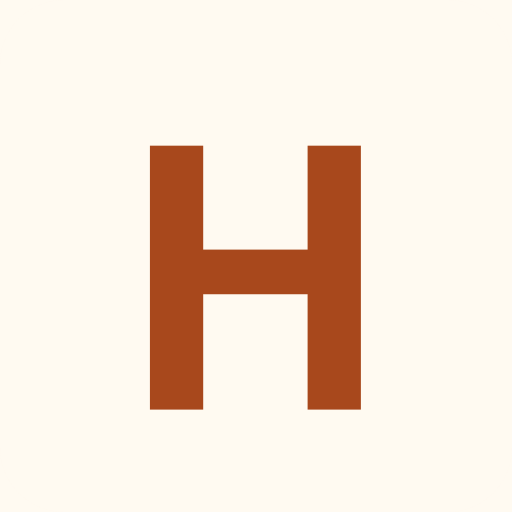
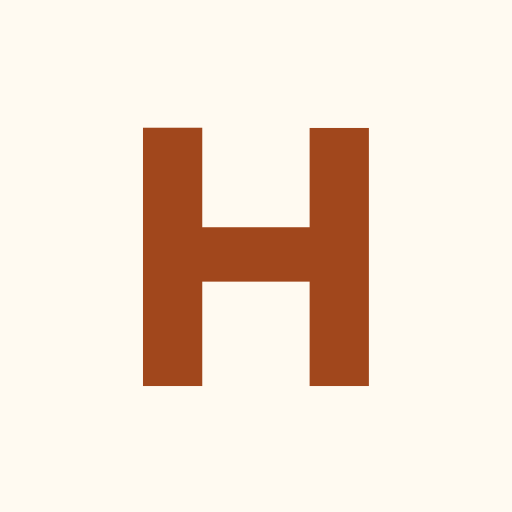
fix(app-splash): знак и иконка набраны Figtree, Caprasimo убран из продукта
Тринадцатая сборка отменила прежнюю оговорку «внутри приложения знак
остаётся в Caprasimo»: строки «вид диска» и «что в круге» заменены на
«вид диска в загрузчике» и «что в иконке», обе просят Figtree 800.

Попутно нашёлся дефект, которого контракт не называл: иконки никогда
не рисовались Figtree. Генератор вшивал шрифт в SVG строкой base64, но
librsvg внутри sharp @font-face в SVG игнорирует — семейства берутся
только из fontconfig. Запасным для веса 800 оказывался брусковый шрифт
с засечками, прямо против «буква рубленая». Теперь шрифт отдаётся своим
fontconfig-конфигом, и генератор падает, если конфиг не прочитан.

Из-за чужих метрик была подобрана и базовая линия: по обмеру готового
PNG центр прописной стоял на 54,6 % высоты. y=75,4 ставит его на 50,1 %.

Тон буквы иконки — --ac2 (#a1471c) из набора ролей, а не #a8481c: это
я ошибся в задании, контракт называет роль прямо.

В загрузчике добавлен preload шрифта: буква живёт 300 мс, при swap она
успела бы мигнуть системным шрифтом.

Changed region(s): [[0.2812, 0.25, 0.7188, 0.8125]]

diff --git a/apps/web/__tests__/boot-spinner-mark.test.js b/apps/web/__tests__/boot-spinner-mark.test.js
@@ -201,19 +201,60 @@ describe('cold-start spinner mark', () => {
     expect(css).not.toMatch(/font: 700 1[67]px/);
   });
 
-  it('puts the loader letter under the wait sign, Caprasimo on --ac', () => {
-    // Контракт app-splash «вид диска»: в загрузчике буква H тоном --ac,
-    // набранная Caprasimo. Кадр «Стык · загрузчик» рисует на её месте сразу
-    // дугу — контракт старше кадра, буква живёт до порога 300 мс.
+  it('puts the loader letter under the wait sign, Figtree 800 on --ac', () => {
+    // Строка контракта app-splash «вид диска в загрузчике» (двенадцатая сборка):
+    // буква H тоном --ac, набранная Figtree весом 800, — «тот же шрифт, что в
+    // иконке приложения; Caprasimo в продукте не используется нигде». Прежняя
+    // редакция обещала здесь Caprasimo, и тест закреплял его как правильный;
+    // дизайнер назвал это ошибкой, поэтому проверка переписана под новую строку.
+    // Кадр «Стык · загрузчик» рисует на месте буквы сразу дугу — контракт старше
+    // кадра, буква живёт до порога 300 мс.
     expect(html).toContain('<span class="heys-boot-mark__letter" aria-hidden="true">H</span>');
-    expect(css).toContain("font-family: Caprasimo;");
-    expect(css).toMatch(/\.heys-boot-mark__letter \{[\s\S]*?Caprasimo[\s\S]*?var\(--boot-letter\)/);
+    expect(css).toContain('font-family: Figtree;');
+    expect(css).toContain("src: url('/fonts/figtree/Figtree-Variable.ttf') format('truetype');");
+    expect(css).toMatch(
+      /\.heys-boot-mark__letter \{[\s\S]*?font: 800 25px\/1 Figtree[\s\S]*?var\(--boot-letter\)/,
+    );
     expect(css).toContain('--boot-letter: #8a4a20;');
     expect(css).toMatch(/heys-boot-letter-out 1ms linear 300ms forwards/);
+    // Caprasimo снят целиком: и объявление шрифта, и его имя в наборе буквы.
+    // Комментарии вычищены — в них имя остаётся намеренно, как история решения.
+    expect(css.replace(/\/\*[\s\S]*?\*\//g, '')).not.toContain('Caprasimo');
+    expect(html).not.toContain('Caprasimo');
     // Знака ожидания до 300 мс нет вовсе.
     expect(css).toMatch(
       /\.heys-boot-mark__disc \.heys-boot-mark__spin > svg \{[\s\S]*?opacity: 0;[\s\S]*?heys-boot-fadein 150ms ease-out 300ms/,
     );
+  });
+
+  it('preloads Figtree so the loader letter is not drawn by a system font', () => {
+    // Буква рисуется до первого пейнта, а @font-face стоит на font-display:
+    // swap: без preload запрос за файлом стартует только когда вёрстка дойдёт
+    // до буквы, и она успевает мигнуть системным шрифтом за те 300 мс, что
+    // живёт. crossorigin обязателен — иначе preload не попадает в тот же кэш,
+    // что CORS-запрос шрифта, и файл качается дважды.
+    expect(html).toMatch(
+      /<link rel="preload" href="\/fonts\/figtree\/Figtree-Variable\.ttf" as="font" type="font\/ttf" crossorigin \/>/,
+    );
+    // Preload обязан стоять до стилей знака, иначе он ничего не ускоряет.
+    expect(html.indexOf('Figtree-Variable.ttf')).toBeLessThan(
+      html.indexOf('styles/heys-boot-mark.css'),
+    );
+  });
+
+  it('leaves the loader disc without stroke, shadow or a second colour', () => {
+    // «диск 56 px радиусом 999, заливка --c2 <…>; обводки, тени и второго цвета
+    // нет». --c2 песочного набора = #efe3cf = --boot-disc.
+    const disc = readRule(css, '.heys-boot-mark__disc');
+    expect(disc.selector).toBe('.heys-boot-mark__disc');
+    expect(disc.body).toContain('width: var(--heys-splash-disc-size)');
+    expect(disc.body).toContain('border-radius: 999px');
+    expect(disc.body).toContain('background: var(--boot-disc)');
+    expect(disc.body).not.toContain('box-shadow');
+    expect(disc.body).not.toContain('filter');
+    expect(disc.body).not.toMatch(/(^|[;\s])border\s*:/);
+    expect(disc.body).not.toMatch(/(^|[;\s])outline\s*:/);
+    expect(css).toContain('--boot-disc: #efe3cf;');
   });
 
   it('splits the caption threshold from the reason threshold', () => {
@@ -303,20 +344,53 @@ describe('cold-start spinner mark', () => {
     expect(manifest.background_color).toBe('#fffaf1');
     expect(manifest.theme_color).toBe('#fffaf1');
     expect(manifest.description).toContain('Nutrition Tracker');
-    expect(iconSvg).toContain('fill="#fffaf1"');
-    expect(iconSvg).toContain('Figtree');
-    expect(iconSvg).toContain('font-size="72"');
-    // Строка контракта app-splash «что в круге» (девятая сборка): H в Figtree
-    // весом 800. Тест писался под сборку иконки коммитами 9ac24876/fcd0a106,
-    // когда вес был 700; остальные его утверждения — Figtree, размер 72,
-    // отсутствие Caprasimo — совпадают с той же строкой, разошёлся только вес.
-    expect(iconSvg).toContain('font-weight="800"');
-    expect(iconSvg).not.toContain('Caprasimo');
-    expect(iconSvg).not.toContain('fill="#efe3cf"');
-    expect(iconSvg).not.toContain('cy="44"');
-    expect(appleSvg).toContain('fill="#fffaf1"');
-    expect(appleSvg).toContain('Figtree');
-    expect(appleSvg).toContain('font-size="72"');
+    // Строка контракта app-splash «что в иконке» (двенадцатая сборка): H
+    // рубленая, Figtree весом 800, тоном --ac2 (#a1471c) прямо на фоне #fffaf1 — фон
+    // заливает весь квадрат, подложки под буквой нет ни круга, ни скруглённого
+    // квадрата, ни обводки. Прежде эта строка звалась «что в круге»; круга в
+    // ней больше нет, поэтому отсутствие подложки проверяется явно.
+    for (const [name, svg] of [
+      ['icon-v4.svg', iconSvg],
+      ['icon-v4-apple.svg', appleSvg],
+    ]) {
+      expect(svg, name).toContain('<rect width="100" height="100" fill="#fffaf1" />');
+      expect(svg, name).toContain('Figtree');
+      expect(svg, name).toContain('font-size="72"');
+      expect(svg, name).toContain('font-weight="800"');
+      expect(svg, name).toContain('fill="#a1471c"');
+      expect(svg, name).not.toContain('Caprasimo');
+      // Подложки нет: ни круга, ни скруглённого квадрата, ни обводки.
+      expect(svg, name).not.toContain('<circle');
+      expect(svg, name).not.toContain('<ellipse');
+      expect(svg, name).not.toContain('rx=');
+      expect(svg, name).not.toContain('stroke=');
+      expect(svg, name).not.toContain('fill="#efe3cf"');
+      expect(svg, name).not.toContain('cy="44"');
+      // Одна заливка на весь квадрат и один текст — второй фигуры быть не должно.
+      expect(svg.match(/<rect/g), name).toHaveLength(1);
+      expect(svg.match(/<text/g), name).toHaveLength(1);
+    }
+    // «буква стоит по центру и занимает больше половины плитки»: считаем от
+    // самого файла — высота прописной у Figtree около 0,72 кегля, так что на
+    // квадрате 100 половину перекрывает уже кегль 70.
+    for (const [name, svg] of [
+      ['icon-v4.svg', iconSvg],
+      ['icon-v4-apple.svg', appleSvg],
+    ]) {
+      const box = svg.match(/viewBox="0 0 (\d+) (\d+)"/);
+      expect(box, name).not.toBeNull();
+      const side = Number(box[1]);
+      expect(Number(box[2]), name).toBe(side);
+      const size = Number(svg.match(/font-size="(\d+)"/)[1]);
+      expect(size * 0.72, name).toBeGreaterThan(side / 2);
+      expect(svg, name).toContain('text-anchor="middle"');
+      expect(Number(svg.match(/\bx="(\d+)"\s/)[1]), name).toBe(side / 2);
+      // По вертикали центрирует базовая линия. 80 досталось от времён, когда
+      // растеризатор молча подставлял вместо Figtree системный шрифт: по обмеру
+      // готового PNG центр прописной стоял на 54,6 % высоты. 75,4 ставит его на
+      // 50,1 % — обмер повторяется скриптом генератора.
+      expect(svg, name).toContain('y="75.4"');
+    }
     expect(fs.existsSync(path.join(webRoot, 'public/apple-touch-icon.png'))).toBe(true);
     expect(html).toContain('rel="apple-touch-icon" href="/apple-touch-icon.png" sizes="180x180"');
     expect(html).toContain('apple-mobile-web-app-capable" content="yes"');

diff --git a/apps/web/index.html b/apps/web/index.html
@@ -971,9 +971,18 @@
     <!-- Login gate имеет inline стили и не зависит от Tailwind -->
     <link rel="stylesheet" href="/styles/tailwind.css" />
 
+    <!-- Буква знака загрузчика набрана Figtree весом 800 (контракт app-splash
+         «вид диска в загрузчике») и рисуется до первого пейнта. Без preload
+         запрос за шрифтом стартует только когда до буквы дойдёт вёрстка, и она
+         успевает мигнуть системным шрифтом: у @font-face стоит font-display:
+         swap, а сама буква живёт всего 300 мс. crossorigin обязателен — шрифты
+         грузятся в CORS-режиме даже со своего домена, без него запрос был бы
+         второй, мимо кэша preload'а. -->
+    <link rel="preload" href="/fonts/figtree/Figtree-Variable.ttf" as="font" type="font/ttf" crossorigin />
+
     <!-- Critical CSS for instant rendering -->
     <link rel="stylesheet" href="styles/critical.css?v=14" />
-    <link rel="stylesheet" href="styles/heys-boot-mark.css?v=8" />
+    <link rel="stylesheet" href="styles/heys-boot-mark.css?v=9" />
     <link rel="stylesheet" href="styles/modules/002-ui-v4-palette-roles.css" />
     <link rel="stylesheet" href="styles/modules/733-ui-v4-login-theme.css?v=14" />
 
@@ -989,10 +998,10 @@
     <link rel="preconnect" href="https://cdn.jsdelivr.net" crossorigin />
     <link rel="dns-prefetch" href="https://cdn.jsdelivr.net" />
     <!-- Preload критических boot-бандлов (2026-02-25 bundle migration) -->
-    <link rel="preload" href="boot-core.bundle.fc1f39fd2d27.js" as="script" />
-    <link rel="preload" href="boot-calc.bundle.b96b85940332.js" as="script" />
+    <link rel="preload" href="boot-core.bundle.c890f0f5f4e5.js" as="script" />
+    <link rel="preload" href="boot-calc.bundle.b1c22d54468c.js" as="script" />
     <link rel="preload" href="boot-day.bundle.70664faae0ea.js" as="script" />
-    <link rel="preload" href="boot-app.bundle.264d24b43fe2.js" as="script" />
+    <link rel="preload" href="boot-app.bundle.4f03b00bafea.js" as="script" />
     <link rel="preload" href="boot-init.bundle.70669b2d2b0b.js" as="script" />
     <!-- React теперь бандлится локально через Vite (миграция с CDN 2026-01-21).
          Preload — даёт parallel fetch во время HTML parse, к моменту достижения parser'ом
@@ -1531,7 +1540,8 @@
         <div class="heys-boot-mark" data-heys-boot-mark="true" role="status" aria-live="polite" aria-busy="true">
             <span class="heys-boot-mark__disc" aria-hidden="true">
                 <!-- Загрузчик: буква знака до порога 300 мс (контракт app-splash
-                     «вид диска»), дальше на её месте дуга знака ожидания. -->
+                     «вид диска в загрузчике» — H, Figtree 800, тон --ac),
+                     дальше на её месте дуга знака ожидания. -->
                 <span class="heys-boot-mark__letter" aria-hidden="true">H</span>
                 <span class="heys-boot-mark__spin animate-always" aria-hidden="true">
                     <!-- Контракт «вид знака»: дуга 26 обводкой 2,75, хвост той же
@@ -3258,10 +3268,10 @@
          Сгенерировано: node scripts/bundle-legacy.mjs  (pnpm bundle:legacy)
          Состав и хеши: bundle-manifest.json
          Хеш в имени = вечный кэш (cache-first SW). -->
-    <script defer src="boot-core.bundle.fc1f39fd2d27.js" fetchpriority="high"></script>
-    <script defer src="boot-calc.bundle.b96b85940332.js"></script>
+    <script defer src="boot-core.bundle.c890f0f5f4e5.js" fetchpriority="high"></script>
+    <script defer src="boot-calc.bundle.b1c22d54468c.js"></script>
     <script defer src="boot-day.bundle.70664faae0ea.js"></script>
-    <script defer src="boot-app.bundle.264d24b43fe2.js"></script>
+    <script defer src="boot-app.bundle.4f03b00bafea.js"></script>
     <script defer src="boot-init.bundle.70669b2d2b0b.js"
         onerror="window.__heysShowRecoveryUI && window.__heysShowRecoveryUI('CRITICAL_SCRIPT_LOAD: boot-init.bundle')"></script>
 

diff --git a/apps/web/styles/heys-boot-mark.css b/apps/web/styles/heys-boot-mark.css
@@ -18,16 +18,20 @@ html[data-theme="dark"], html[data-theme="classic-dark"] { background: #141210; 
 html[data-theme="blue"], html[data-theme-id="blue"] { background: #ffffff; }
 html[data-theme="blue-dark"], html[data-theme-id="blue-dark"] { background: #0d1a26; }
 
-/* Знак загрузчика набран Caprasimo (контракт app-splash «вид диска»: в иконке
-   Figtree, в загрузчике внутри приложения — Caprasimo). Роли v4 сюда не годятся:
-   этот файл — критический стиль до первого пейнта, а 002-ui-v4-palette-roles.css
-   приезжает со стилями приложения, поэтому набор задан литералами палитр
-   v4-canvas.css. */
+/* Знак загрузчика набран Figtree весом 800 — тем же шрифтом, что буква в иконке
+   приложения (контракт app-splash «вид диска в загрузчике»: «Caprasimo в продукте
+   не используется нигде»). Прежняя редакция контракта обещала здесь Caprasimo, и
+   файл держал под него собственный @font-face; теперь он ссылается на Figtree.
+   Объявление продублировано здесь намеренно и слово в слово повторяет то, что
+   стоит в 002-ui-v4-palette-roles.css: этот файл — критический стиль до первого
+   пейнта, и буква не должна зависеть от того, дойдёт ли до браузера чужой файл.
+   Один и тот же URL — значит один запрос за шрифтом, а не два. Роли v4 сюда всё
+   так же не годятся, поэтому цвета заданы литералами палитр v4-canvas.css. */
 @font-face {
-    font-family: Caprasimo;
-    src: url('/fonts/Caprasimo-Regular.ttf') format('truetype');
+    font-family: Figtree;
+    src: url('/fonts/figtree/Figtree-Variable.ttf') format('truetype');
     font-style: normal;
-    font-weight: 400;
+    font-weight: 300 900;
     font-display: swap;
 }
 
@@ -209,16 +213,20 @@ html[data-theme="blue-dark"] .heys-wait-mark-overlay { background-color: #0d1a26
     flex: none;
     pointer-events: none;
 }
-/* Буква знака в загрузчике (контракт app-splash «вид диска»). Кадр «Стык ·
-   загрузчик» рисует на её месте сразу дугу; контракт старше кадра, поэтому
-   буква стоит до порога 300 мс, а дальше её сменяет знак ожидания — так же
-   описывает стык подпись кадра «дуга на месте буквы».
-   29 px на диске 64 из канваса = 25 px на продуктовом диске 56. */
+/* Буква знака в загрузчике (контракт app-splash «вид диска в загрузчике»):
+   H тоном --ac (--boot-letter) на диске --c2, Figtree весом 800; обводки, тени
+   и второго цвета у диска нет. Кадр «Стык · загрузчик» рисует на её месте сразу
+   дугу; контракт старше кадра, поэтому буква стоит до порога 300 мс, а дальше её
+   сменяет знак ожидания — так же описывает стык подпись кадра «дуга на месте
+   буквы».
+   25px/1 с нижним отступом 2 px — набор класса .bml из самого канваса
+   app-splash (в кадрах диск увеличен до 64 «только для наглядности», буква там
+   29 px, но продуктовый диск 56 и буква на нём та же 25). */
 .heys-boot-mark__letter {
     position: absolute;
-    font: 400 25px/1 Caprasimo, Georgia, serif;
+    font: 800 25px/1 Figtree, system-ui, sans-serif;
     color: var(--boot-letter);
-    padding-bottom: 2.5px;
+    padding-bottom: 2px;
     animation: heys-boot-letter-out 1ms linear 300ms forwards;
 }
 .heys-boot-mark.is-fail .heys-boot-mark__letter,

diff --git a/docs/ui/ui-v4-canvas-brief.md b/docs/ui/ui-v4-canvas-brief.md
@@ -496,9 +496,11 @@ pt, не выдержанные почти нигде; роли `--v4-chip` / `-
 
 - **Знак в иконке — Figtree, не Caprasimo.** Засечки заплывают в
   maskable-иконке, которую платформа обрезает в круг и масштабирует до 48 px.
-  Внутри приложения знак остаётся в Caprasimo — там он вектор в своём размере.
   Коммиты `9ac24876` / `fcd0a106` были правы; строки «вид диска» и «что в круге»
-  переписаны.
+  переписаны. **Уточнено тринадцатой сборкой (25 августа):** оговорка «внутри
+  приложения знак остаётся в Caprasimo» отменена — строки заменены на «вид диска
+  в загрузчике» и «что в иконке», и обе просят Figtree весом 800. Caprasimo в
+  продукте не используется нигде.
 - **Капсула даты — три вкладки, не пять.** Отчёты и Инсайты работают периодом;
   капсулы дня там нет и она не выключается, а не существует. Код был написан так
   с начала, вердикта под исключение не было — теперь есть.
